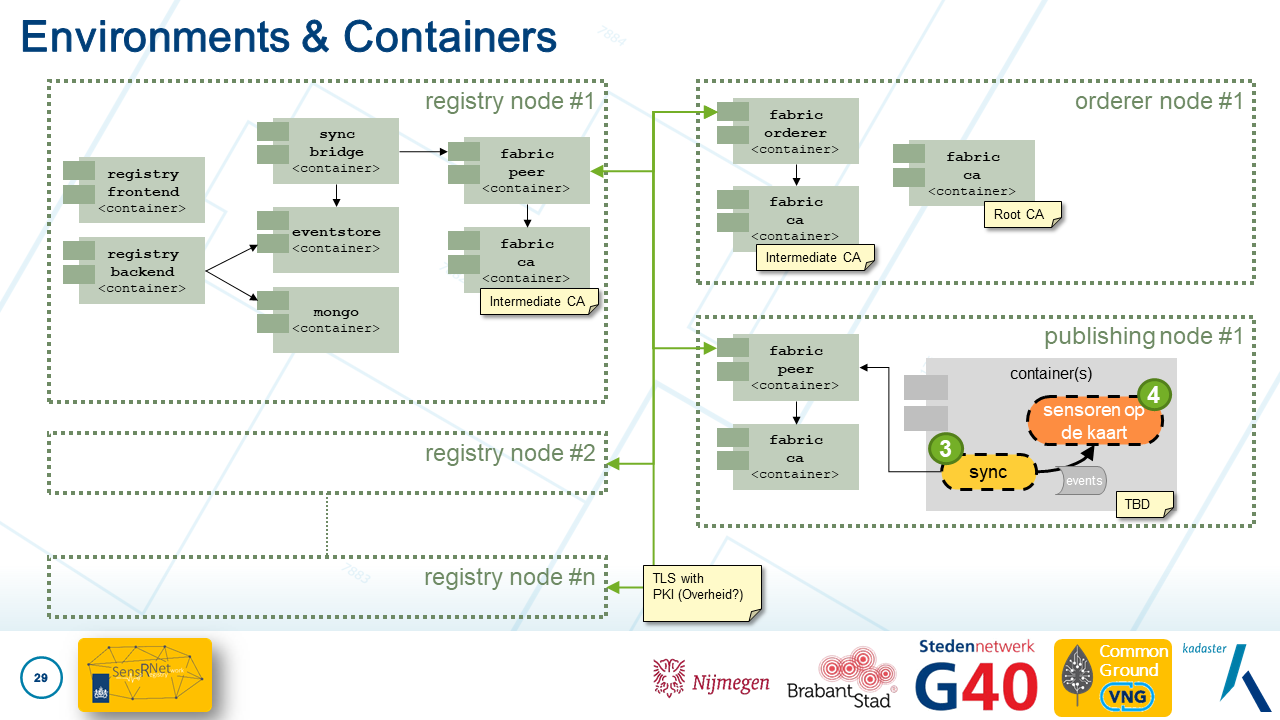
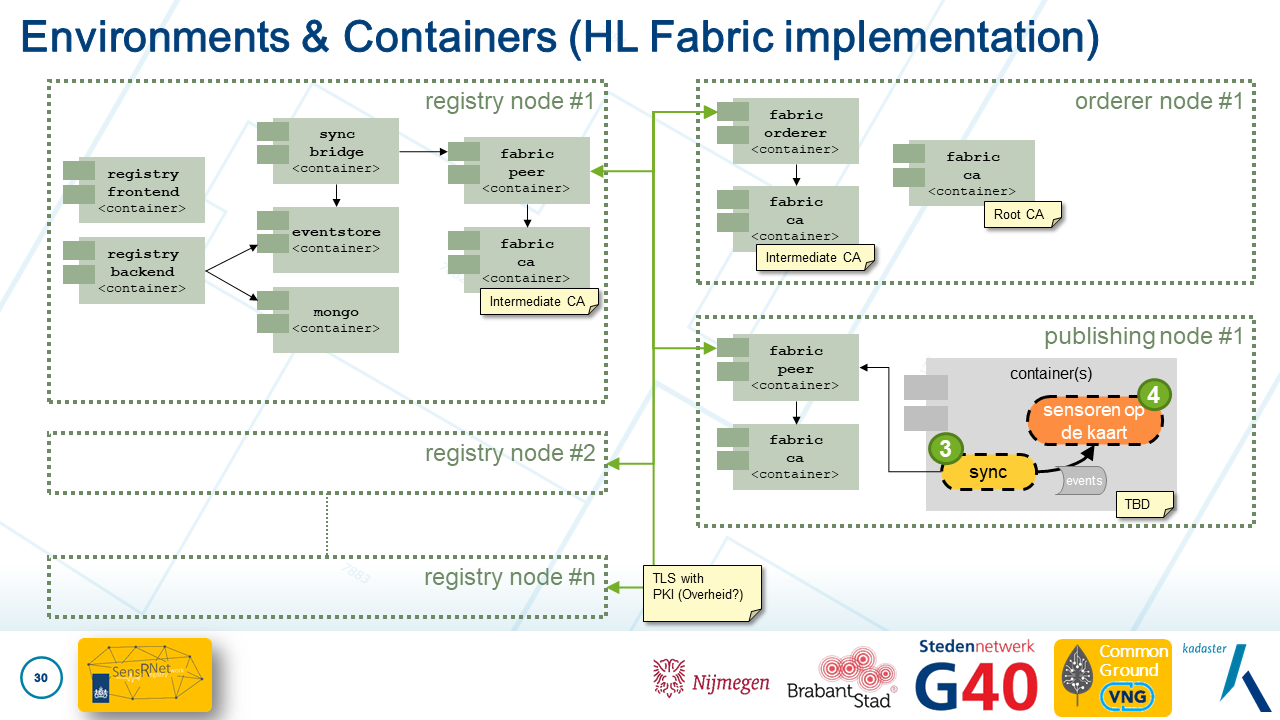
added kafka deployment

Changed region(s): [[0.4375, 0.0306, 0.875, 0.0917]]

diff --git a/docs/Deployment.md b/docs/Deployment.md
@@ -8,6 +8,11 @@ This is building on the [test environment](Architecture.md#test-environments) de
 
 The architecture is build upon one or more containers for each component.
 
+## HyperLedger Fabric implementation
+
+> _This is the target implementation because this has a real decentralized concept in mind._
+> _For the walking skeleton demo we'll use a central implementation: [Kafka](#kafka)_
+
 ![SensRNet Environments & Containers](../images/SensRNet-EnvsAndContainers.png)
 
 The [HyperLedger Fabric](SyncFabricEN.md) (HL Fabric) infrastructure is using the [HL Fabric CA](https://hyperledger-fabric.readthedocs.io/en/latest/glossary.html#hyperledger-fabric-ca) as 'enrollment CA' but TLS is enabled by the infrastructure platform a.k.a. existing 'PKI Overheid' standards and routing.
@@ -33,3 +38,12 @@ HL Fabric is also build upon containers and fits in the architecture quite well.
    1. Deploy Sync-Bridge
    1. Deploy Registry Frontend
 
+
+## Kafka implementation
+
+> _This is only a temporary implementation to provide 'decentralized networking' simulation for the time being_
+
+![SensRNet Environments & Containers](../images/SensRNet-EnvsAndContainers-Kafka.png)
+
+Each Registry Node is connected to a central available Kafka cluster.
+This is deployed in its own Kubernetes cluster.
